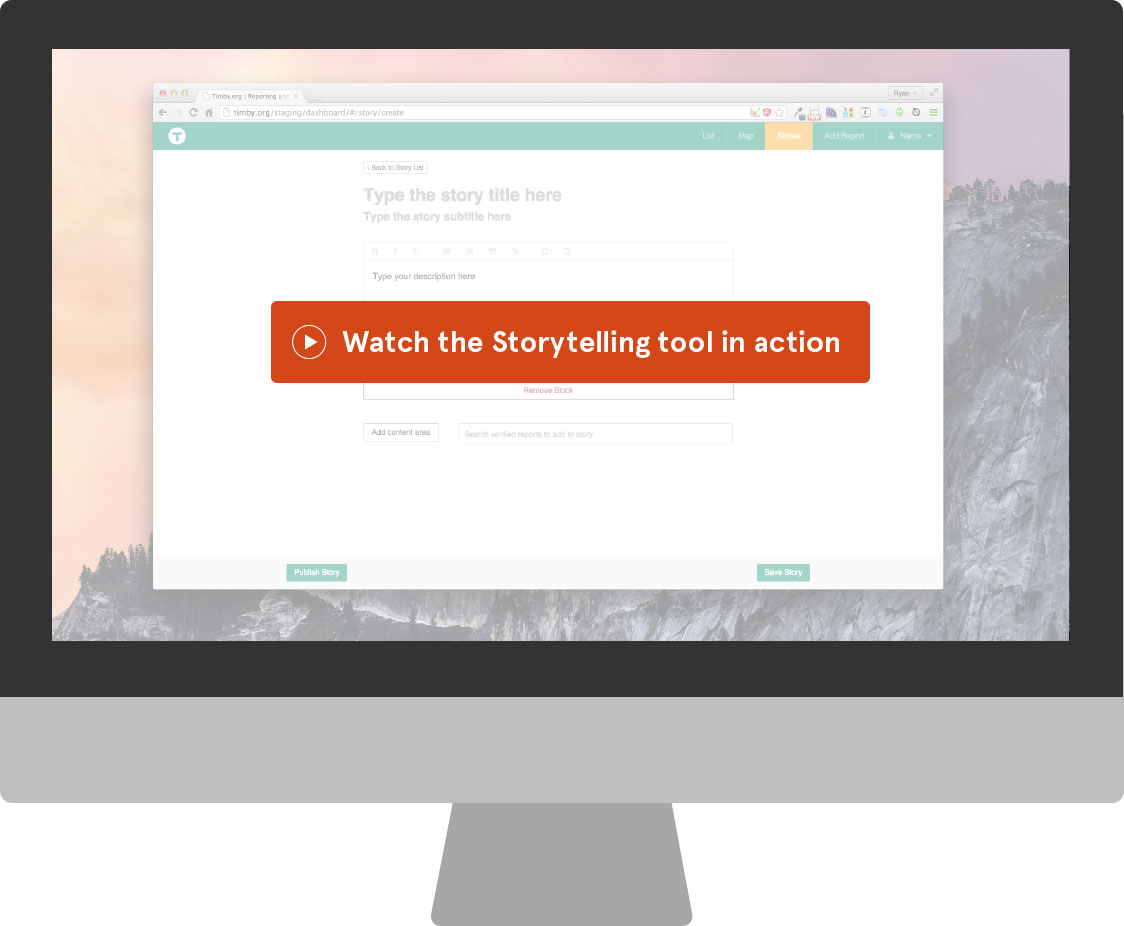
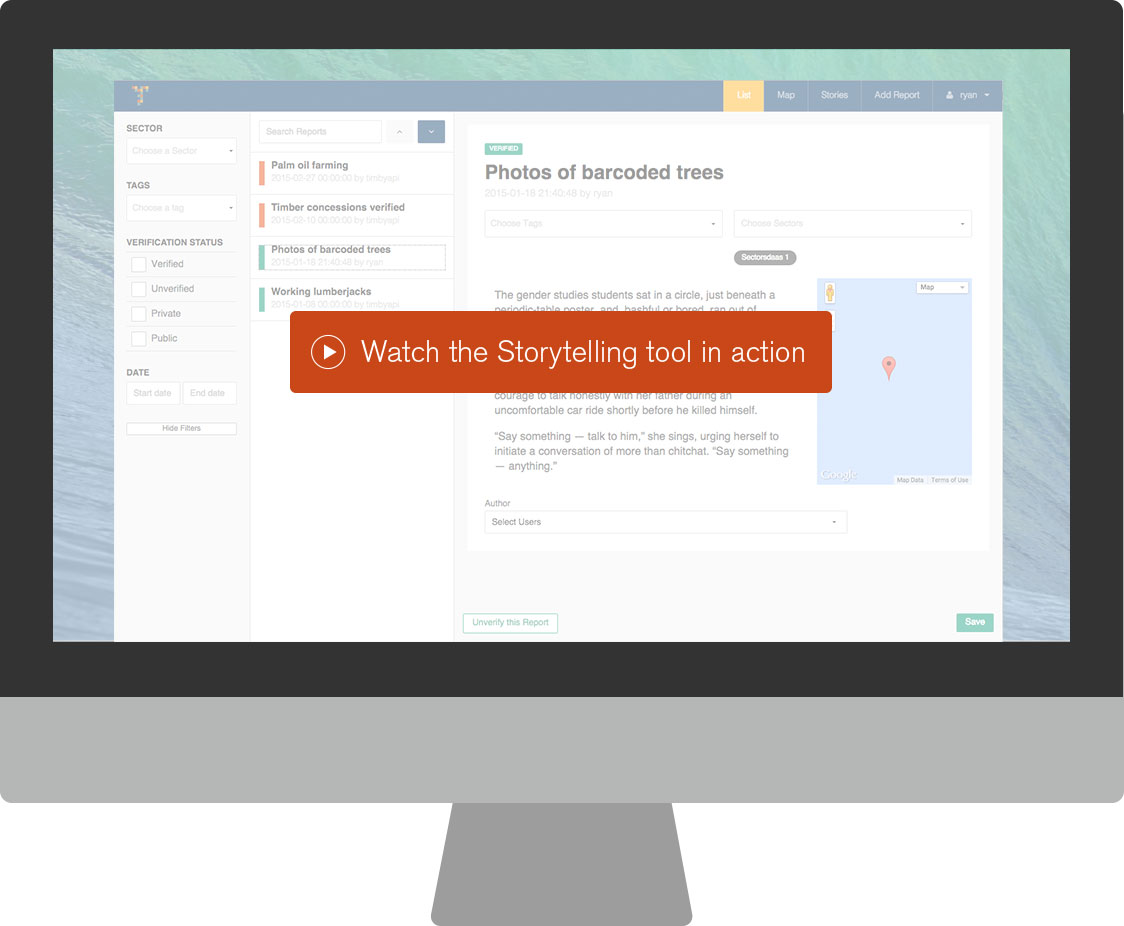
making one item big in blog

Changed region(s): [[0.0311, 0.0302, 0.9653, 0.6955], [0.4359, 0.5443, 0.4671, 0.5745], [0.3425, 0.4536, 0.3737, 0.4838]]

diff --git a/blog/index.html b/blog/index.html
@@ -13,19 +13,39 @@ navurl: blog
   </div>
 </header>
 <section class="module module-blog">
-  <div class="row limit">
-    {% for post in site.posts %}
 
-      <a href="{{site.baseurl}}{{ post.url }}" class="four columns blog-item">
-        <div class="space-group">
-          <img src="{{ post.photo | prepend: site.baseurl }}" alt="">
-        </div>
-        <h2>
-          {{ post.title }}
-        </h2>
-        <p class="text-red">{{ post.date | date_to_long_string  }}</p>
-        <p class="no-margin">{{ post.summary }}</p>
-      </a>
+    {% for post in site.posts %}
+      {% assign loopindex = forloop.index %}
+        {% if loopindex == 1 %}
+         <div class="row limit">
+          <a href="{{site.baseurl}}{{ post.url }}" class="row space-group blog-item">
+              <div class="seven ">
+                <img src="{{ post.photo | prepend: site.baseurl }}" alt="">
+              </div>
+              <div class="five ">
+                <h2 class="giant">
+                  {{ post.title }}
+                </h2>
+                <p class="text-red">{{ post.date | date_to_long_string  }}</p>
+                <p class="no-margin">{{ post.summary }}</p>
+              </div>
+          </a>
+         </div>
+         <div class="row limit">
+        {% endif %}
+        {% if loopindex != 1 %}
+          <a href="{{site.baseurl}}{{ post.url }}" class="four columns blog-item">
+            <div class="space-group">
+              <img src="{{ post.photo | prepend: site.baseurl }}" alt="">
+            </div>
+            <h2>
+              {{ post.title }}
+            </h2>
+            <p class="text-red">{{ post.date | date_to_long_string  }}</p>
+            <p class="no-margin">{{ post.summary }}</p>
+          </a>
+        {% endif %}
       {% endfor %}
+      </div>
   </div>
 </section>

diff --git a/_sass/modules/_slick-carousel.sass b/_sass/modules/_slick-carousel.sass
@@ -4,13 +4,13 @@
 // Default Variables
 
 $slick-font-path: "./fonts/" !default
-$slick-font-family: "slick" !default
+$slick-font-family: "fontawesome" !default
 $slick-loader-path: "./" !default
-$slick-arrow-color: white !default
-$slick-dot-color: black !default
+$slick-arrow-color: $gray !default
+$slick-dot-color: $black !default
 $slick-dot-color-active: $slick-dot-color !default
-$slick-prev-character: "\2190" !default
-$slick-next-character: "\2192" !default
+$slick-prev-character: "\f104" !default
+$slick-next-character: "\f105" !default
 $slick-dot-character: "\2022" !default
 $slick-dot-size: 30px !default
 $opacity-default: 0.75
@@ -120,15 +120,15 @@ $opacity-not-active: 0.25
 .slick-next
   position: absolute
   display: block
-  height: 20px
-  width: 20px
+  height: 50px
+  width: 50px
   line-height: 0
   font-size: 0
   cursor: pointer
   background: transparent
   color: transparent
   top: 50%
-  margin-top: -10px
+  margin-top: -25px
   padding: 0
   border: none
   outline: none
@@ -143,7 +143,7 @@ $opacity-not-active: 0.25
 
 .slick-prev:before, .slick-next:before
   font-family: $slick-font-family
-  font-size: 20px
+  font-size: 40px
   line-height: 1
   color: $slick-arrow-color
   opacity: $opacity-default

diff --git a/index.html b/index.html
@@ -105,14 +105,14 @@ navurl: home
           </div>
           <div class="four columns padded">
             <figure class="space-group">
-              <img src="{{base_url}}images/dashboard-front.jpg" alt="" >
+              <img src="{{ "/images/computer-front.png" | prepend: site.baseurl }}" alt="">
             </figure>
             <h3 class="no-margin text-green bold">Investigation Dashboard</h3>
             <p>Find connections between events and individuals over space and time</p>
           </div>
           <div class="four columns padded">
             <figure class="space-group">
-              <img src="{{base_url}}images/story-front.jpg" alt="" >
+              <img src="{{ "/images/story-front.png" | prepend: site.baseurl }}" alt="">
             </figure>
             <h3 class="no-margin text-green bold">Storytelling<br/>Tool</h3>
             <p>Share your embeddable multimedia narratives with the world</p>

diff --git a/_sass/_typography.sass b/_sass/_typography.sass
@@ -37,6 +37,9 @@ h2
   &.big
     font-size: 32px
     line-height: 1.1em
+  &.giant
+    font-size: 46px
+    line-height: 1.2em
 h3
   margin-top: 0
   font-size: 26px
